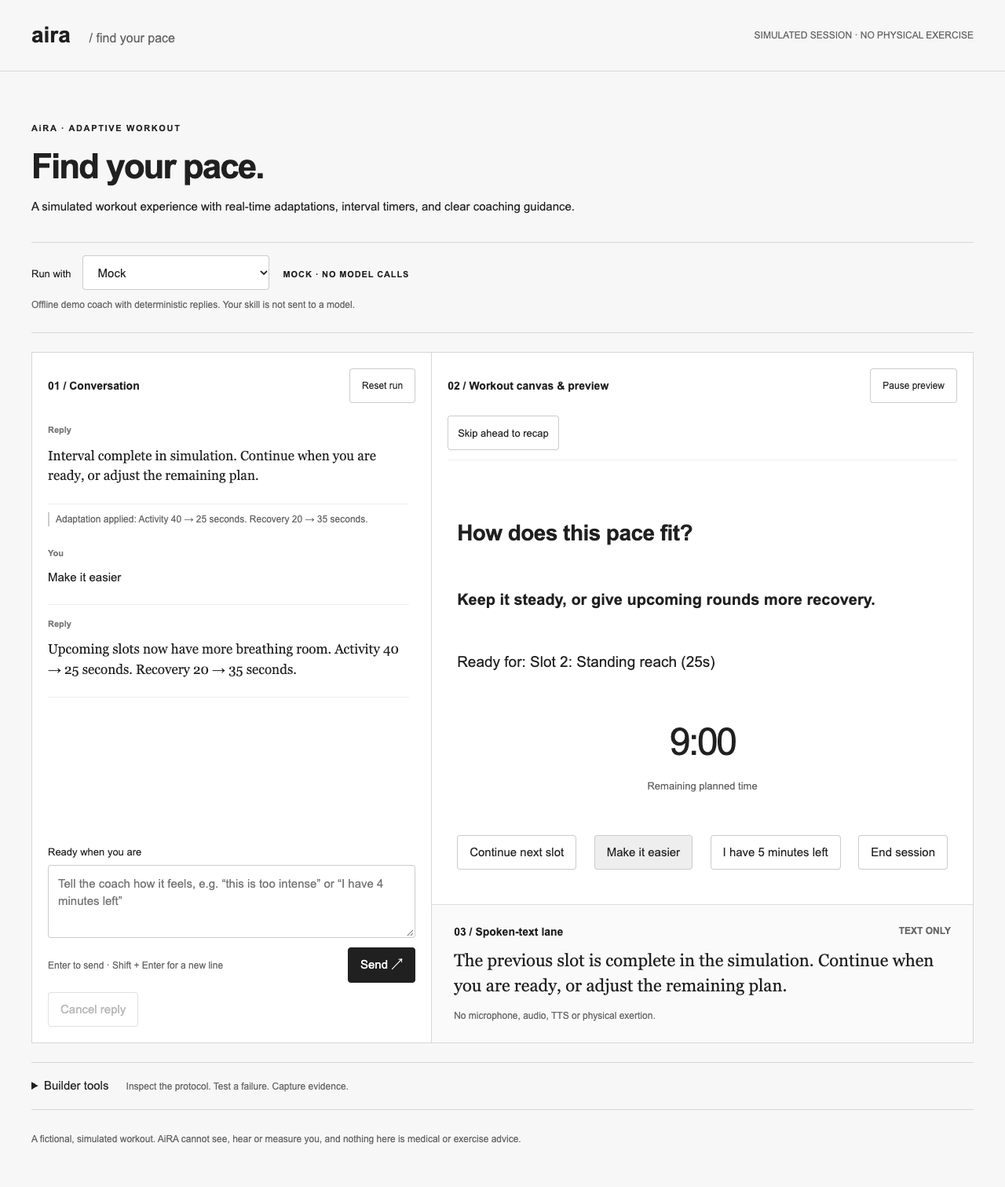
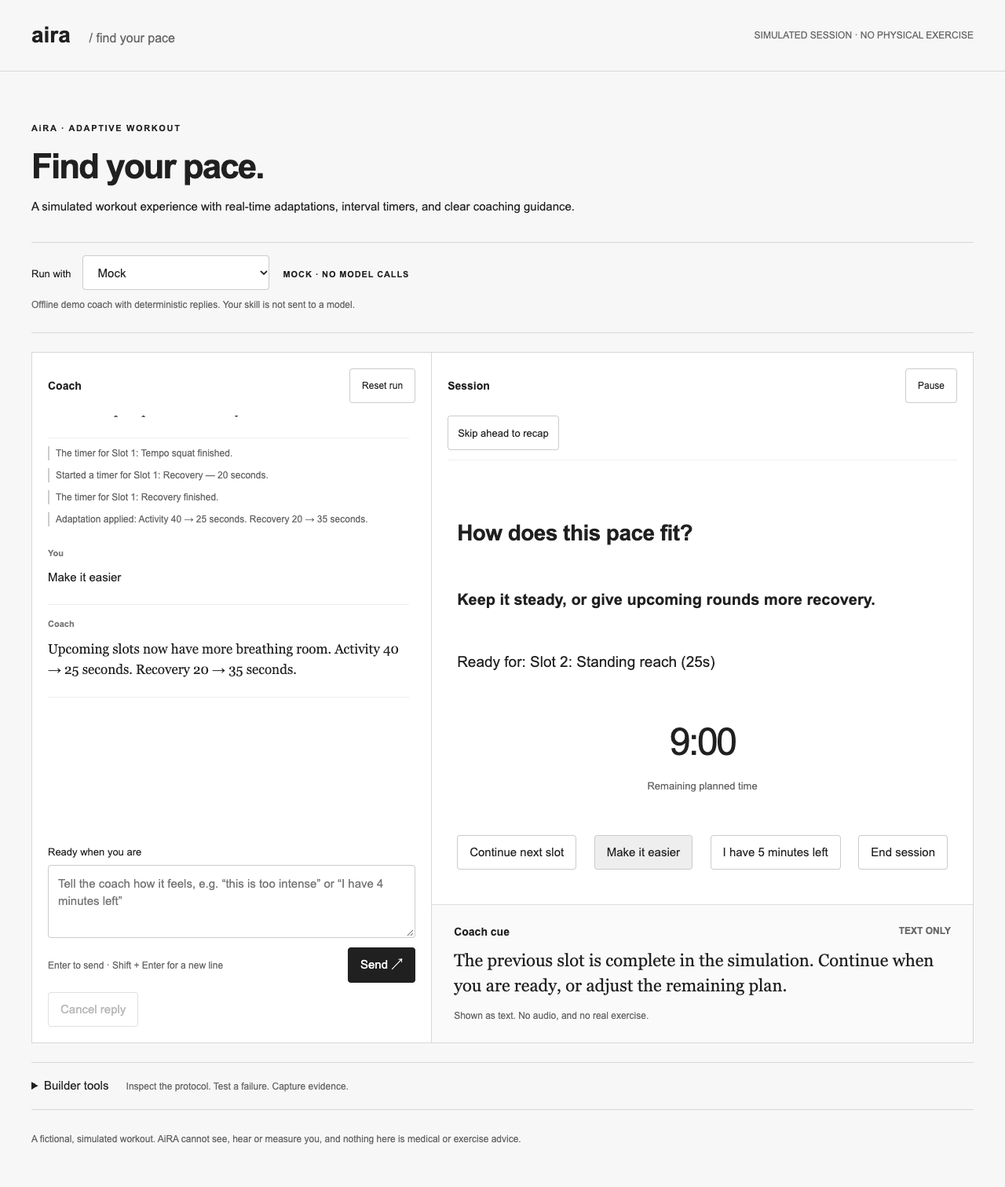
Phase 1 polish: user-facing wording, one finish control, safer coach notes
- A button press never cancels the coach's answer to something typed; it
  may replace a pending comment on an older press, so narration never lags.
- One way to finish an interval: the timer's Simulate finish.
- User-facing labels replace harness wording (Coach, Session, Coach cue,
  Pause), and the empty canvas is the single welcome with a Start button;
  Restart goes straight to a fresh preview.
- Lists honour their markers: numbered preview steps, +/- recap items.
- Transcript logs a finished interval before the recovery it starts.
- Browser tests only rewrite evidence screenshots with CAPTURE_EVIDENCE=1;
  workout screenshots refreshed for the new UI.

diff --git a/src/web/app.ts b/src/web/app.ts
@@ -7,7 +7,7 @@ import { splitReply } from '../shared/openui/document.js';
 import type { StatementNode } from '../shared/openui/openui-model.js';
 import { redactValue } from '../shared/redact.js';
 import { renderComponent } from './components.js';
-import { byId,el } from './dom.js';
+import { byId,button,el } from './dom.js';
 import { applyAdaptation, calculateRemainingSeconds, completeActiveInterval, createWorkoutSession, endSession, getRecapSummary, startInterval, startSession } from '../shared/workout/session.js';
 import { extractProposal, formatClock, intervalTimerKey, renderWorkoutProgram } from '../shared/workout/openui-bridge.js';
 import type { WorkoutActionRecord, WorkoutSession } from '../shared/workout/types.js';
@@ -42,19 +42,19 @@ function render(){
   if(config){const selected=config.providers.find(p=>p.id===c.provider)!;byId('mode').textContent=c.provider==='mock'?'MOCK · NO MODEL CALLS':selected.enabled?'LIVE WHEN SENT':'SETUP / BLOCKED';byId('provider-description').textContent=selected.message;byId('consent-wrap').hidden=c.provider==='mock'||!selected.enabled;byId('consent-label').textContent=c.provider==='claude-cli'?'Use my subscription quota on Send/Retry; I reviewed the host-policy limits.':'Use my API budget on Send/Retry.';byId<HTMLInputElement>('consent').checked=c.consent;byId<HTMLButtonElement>('send').disabled=!selected.enabled||(c.provider!=='mock'&&!c.consent)||paused;byId('mock-controls').hidden=c.provider!=='mock';byId('sample').hidden=c.provider!=='mock';}
   byId('send').textContent=c.pending?'Send update ↗':'Send ↗';byId<HTMLButtonElement>('cancel').disabled=!c.pending;byId('pending').hidden=!c.pending;byId('status').textContent=c.pending?'Thinking… type an update to interrupt':c.error?'Needs attention':'Ready when you are';byId('error').hidden=!c.error;byId('error-message').textContent=c.error;
   const transcript=byId('transcript');transcript.replaceChildren();if(!c.events.length)transcript.append(el('p','Start the demo session, then tell the coach how it is going.','micro'));
-  for(const event of c.events){if(event.kind==='input'||event.kind==='response'){const n=el('div','','message '+(event.kind==='input'?'user':'assistant'));n.append(el('span',event.kind==='input'?'You':'Reply','who'),el('p',event.text??splitReply(event.result!.turn.reply).prose??''));transcript.append(n);}else if(event.text)transcript.append(el('p',event.text,'event'));else if(event.kind==='interrupted'||event.kind==='cancelled')transcript.append(el('p',event.kind==='interrupted'?'Previous reply interrupted. Your messages are kept.':'Reply cancelled.','event'));}
+  for(const event of c.events){if(event.kind==='input'||event.kind==='response'){const n=el('div','','message '+(event.kind==='input'?'user':'assistant'));n.append(el('span',event.kind==='input'?'You':'Coach','who'),el('p',event.text??splitReply(event.result!.turn.reply).prose??''));transcript.append(n);}else if(event.text)transcript.append(el('p',event.text,'event'));else if(event.kind==='interrupted'||event.kind==='cancelled')transcript.append(el('p',event.kind==='interrupted'?'Previous reply interrupted. Your messages are kept.':'Reply cancelled.','event'));}
   transcript.scrollTop=transcript.scrollHeight;syncTimers();
   const screens=c.document.screens,index=screens.findIndex(s=>s.key===c.document.cursor),key=c.document.echo()+String(paused);
   if(key!==renderKey || !byId('screen').childNodes.length){renderKey=key;updates=[];const surface=byId('screen');surface.replaceChildren();const current=c.document.current;
-    if(!current){const n=el('div','','empty');n.append(el('p','AiRA · FIND YOUR PACE','eyebrow'),el('h3','Your workout starts here.'),el('p','Click Start demo session to begin.'));surface.append(n);}
+    if(!current){const n=el('div','','empty');n.append(el('p','AiRA · FIND YOUR PACE','eyebrow'),el('h3','Your workout starts here.'),el('p','A simulated 12-minute session that adapts when your needs change.'),button('Start demo session',()=>pressOption('Start demo session'),'primary'));surface.append(n);}
     else{for(const node of current.props.children as StatementNode[])if(node.name!=='Cue')surface.append(renderComponent(node,{send:pressOption,timers,timerAction,updates,paused}));if(workoutActive)watchRemaining(surface);}
     const progress=byId('progress');progress.replaceChildren();if(screens.length>1)for(let i=0;i<screens.length;i++){const n=el('span','',''+(i===index?'active':i<index?'past':''));n.setAttribute('aria-label',`Screen ${i+1}${i===index?', current':''}`);progress.append(n);}
   }
   byId('navigation').hidden=screens.length<2;byId('position').textContent=`${index+1} / ${screens.length}`;byId<HTMLButtonElement>('back').disabled=paused||index<=0;byId<HTMLButtonElement>('next').disabled=paused;byId('next').textContent=index===screens.length-1?'Finish preview':'Next →';
-  byId<HTMLButtonElement>('pause').disabled=!screens.length;byId('pause').textContent=paused?'Resume preview':'Pause preview';byId('paused').hidden=!paused;
-  const cues=(c.document.current?.props.children as StatementNode[]??[]).filter(n=>n.name==='Cue').map(n=>String(n.props.text));byId('spoken').textContent=cues.join(' ')||c.document.prose||'Current-screen Cues appear here as text. No audio is produced.';
+  byId<HTMLButtonElement>('pause').disabled=!screens.length;byId('pause').textContent=paused?'Resume':'Pause';byId('paused').hidden=!paused;
+  const cues=(c.document.current?.props.children as StatementNode[]??[]).filter(n=>n.name==='Cue').map(n=>String(n.props.text));byId('spoken').textContent=cues.join(' ')||c.document.prose||'The coach\'s cues for the current screen appear here.';
   byId('state-json').textContent=JSON.stringify({ui_state:c.document.echo(),client_events:c.clientEvents,timers:timers.list(),workout},null,2);byId<HTMLButtonElement>('export').disabled=c.pending||!c.events.length;
-  const inSession=workoutActive&&!['welcome','recap'].includes(workout.stage);byId('btn-start-demo').hidden=workoutActive;byId('btn-sim-remaining').hidden=!inSession;byId<HTMLButtonElement>('btn-sim-remaining').disabled=paused||c.pending;byId('workout-actions').hidden=workoutActive&&!inSession;
+  const inSession=workoutActive&&!['welcome','recap'].includes(workout.stage);byId('btn-sim-remaining').hidden=!inSession;byId<HTMLButtonElement>('btn-sim-remaining').disabled=paused||c.pending;byId('workout-actions').hidden=!inSession;
 }
 byId<HTMLFormElement>('composer').addEventListener('submit',event=>{event.preventDefault();const text=draft.value.trim();if(text){draft.value='';send(text,true);}});
 draft.addEventListener('keydown',event=>{if(event.key==='Enter'&&!event.shiftKey&&!event.isComposing){event.preventDefault();byId<HTMLFormElement>('composer').requestSubmit();}});
@@ -66,7 +66,6 @@ byId<HTMLSelectElement>('provider').addEventListener('change',event=>c.selectPro
 byId<HTMLInputElement>('consent').addEventListener('change',event=>{c.consent=(event.target as HTMLInputElement).checked;if(!c.consent)c.cancel();render();});
 byId('apply-patch').addEventListener('click',()=>{if(workoutActive){byId('patch-status').textContent='Patches are for the wiring sample. The workout screen is rendered from session state; load the sample first.';return;}try{const raw=byId<HTMLTextAreaElement>('patch').value;c.document.apply(raw.includes('```')?raw:'```openui\n'+raw+'\n```');c.localEvent('Builder applied local OpenUI data: '+raw);byId('patch-status').textContent='Patch accepted. This is local fixture evidence, not a model run.';}catch{byId('patch-status').textContent='Invalid patch. Previous screen kept. Check names, arguments and catalog.';}});
 byId('export').addEventListener('click',()=>{const label=byId<HTMLSelectElement>('run-label').value;const payload={format:'aira-workout-run-v1',label,appVersion:APP_VERSION,schemaVersion:SCHEMA_VERSION,selectedProvider:c.provider,note:byId<HTMLTextAreaElement>('note').value,events:c.events,state:{ui_state:c.document.echo(),client_events:c.clientEvents},timers:timers.list(),...(workoutActive?{workout,recap:getRecapSummary(workout)}:{})};const url=URL.createObjectURL(new Blob([JSON.stringify(redactValue(payload),null,2)],{type:'application/json'}));const link=el('a');link.href=url;link.download=label+'.json';link.click();setTimeout(()=>URL.revokeObjectURL(url),1000);byId('export-status').textContent=`Downloaded ${label}.json. Review and move it into runs/.`;});
-byId('btn-start-demo').addEventListener('click',()=>pressOption('Start demo session'));
 byId('btn-sim-remaining').addEventListener('click',()=>{if(!paused&&!c.pending)dispatch('skip-ahead');});
 async function start(){render();try{const response=await fetch('/api/config');if(!response.ok)throw new Error();config=await response.json();const select=byId<HTMLSelectElement>('provider');select.replaceChildren();for(const p of config!.providers){const option=el('option',p.label+(p.enabled?'':' · setup / blocked'));option.value=p.id;select.append(option);}select.value='mock';select.disabled=false;render();}catch{byId('status').textContent='Could not connect. Restart the local server and reload.';}}
 
@@ -95,13 +94,14 @@ function record(action: WorkoutActionRecord['action'], source: WorkoutActionReco
 function showWorkout(event?: string) {
   c.document.apply('```openui\n' + renderWorkoutProgram(workout, activeRemaining()) + '\n```');
   syncTimers();
-  // A newly active interval arrives with a stopped timer; start it.
+  if (event) c.localEvent(event, false);
+  // A newly active interval arrives with a stopped timer; start it after logging what caused it.
   const active = workout.intervals.find(i => i.id === workout.activeIntervalId);
   if (active && timers.list().find(t => t.id === intervalTimerKey(active.id))?.status === 'stopped') {
     timers.start(intervalTimerKey(active.id));
     c.localEvent(activityClientEvents.startedTimer(active.label, active.durationSeconds), false);
   }
-  if (event) c.localEvent(event, false); else render();
+  render();
 }
 
 function dispatch(action: WorkoutAction, arg?: string | number, source: WorkoutActionRecord['source'] = 'user') {
@@ -134,7 +134,8 @@ function dispatch(action: WorkoutAction, arg?: string | number, source: WorkoutA
       return showWorkout('Ended session early.');
     case 'restart':
       nav.dispose(); nav = makeNav(); paused = false; pausedTimers = []; timers.forget(); previousTimers.clear();
-      workout = createWorkoutSession();
+      // Restart goes straight to a fresh preview; the empty-canvas card is the only welcome.
+      workout = startSession(createWorkoutSession());
       record(action, source);
       return showWorkout('Restarted demo session.');
     case 'ease':
@@ -169,7 +170,6 @@ function dispatch(action: WorkoutAction, arg?: string | number, source: WorkoutA
 const OPTIONS: Record<string, [WorkoutAction, (string | number)?]> = {
   'Start demo session': ['start-session'],
   'Start opening': ['start-interval', 'opening'],
-  'Simulate interval finish': ['complete-interval'],
   'Continue next slot': ['start-interval'],
   'Make it easier': ['ease'],
   'I have 5 minutes left': ['shorten', 300],
@@ -180,11 +180,12 @@ const OPTIONS: Record<string, [WorkoutAction, (string | number)?]> = {
 function pressOption(label: string) {
   const option = OPTIONS[label];
   if (!option) return send(label);
-  if (paused) { c.error = 'Resume the preview first.'; return render(); }
+  if (paused) { c.error = 'Resume first.'; return render(); }
   dispatch(...option);
-  // Let the coach comment on the change when a provider is ready; the change itself never waits for it.
+  // Let the coach comment when a provider is ready. A newer press may replace a pending
+  // comment on an older one, but never a pending answer to something the user typed.
   const provider = config?.providers.find(p => p.id === c.provider);
-  if (provider?.enabled && (c.provider === 'mock' || c.consent)) { lastSendTyped = false; void c.send(label); }
+  if (provider?.enabled && (c.provider === 'mock' || c.consent) && !(c.pending && lastSendTyped)) { lastSendTyped = false; void c.send(label); }
 }
 
 function recordAutoStart(finishedId: string) {

diff --git a/src/web/styles.css b/src/web/styles.css
@@ -1,1 +1,1 @@
-*{box-sizing:border-box}body{margin:0;background:#f7f7f7;color:#202020;font-family:Arial,Helvetica,sans-serif;font-size:15px;line-height:1.5}header,main{max-width:1440px;margin:auto;padding:24px 40px}header{display:flex;justify-content:space-between;align-items:center;border-bottom:1px solid #d7d7d7}.brand{color:inherit;font-size:28px;font-weight:700;text-decoration:none}.brand span{font-size:16px;font-weight:400;color:#666;margin-left:16px}.micro{font-size:12px;color:#666}.intro{padding:30px 0 24px}.eyebrow{font-size:11px;letter-spacing:.15em;font-weight:700}h1{font-size:44px;letter-spacing:-.045em;line-height:1.1;margin:16px 0}h2{font-size:14px;margin:0}h3{font-size:18px}p{margin:10px 0}button,select,textarea{font:inherit;border:1px solid #ccc;border-radius:4px;background:#fff;color:#222}button,select{min-height:44px;padding:10px 15px}button{cursor:pointer}button:hover:not(:disabled){background:#eee}button:disabled{color:#888;cursor:default;opacity:.6}button.primary{background:#202020;color:white;border-color:#202020}button.primary:hover:not(:disabled){background:#444}textarea{display:block;width:100%;padding:12px;resize:vertical;max-width:100%}button:focus-visible,select:focus-visible,textarea:focus-visible{outline:2px solid #333;outline-offset:2px}label{display:block;font-size:13px;margin:12px 0 6px}input[type=checkbox]{width:18px;height:18px;vertical-align:middle}.provider-panel{border-block:1px solid #d7d7d7;padding:16px 0;margin-bottom:24px}.provider-panel>label:first-child{display:inline-block;margin-right:14px}.provider-panel strong{font-size:11px;letter-spacing:.08em;margin-left:18px}.workspace{display:grid;grid-template-columns:.85fr 1.15fr;border:1px solid #d7d7d7;background:white}.conversation{border-right:1px solid #d7d7d7;padding:20px;display:flex;flex-direction:column}.panel-heading{display:flex;justify-content:space-between;align-items:center;gap:12px;margin-bottom:16px}.panel-heading button{font-size:12px}.preview{padding:20px;min-width:0}.row{display:flex;align-items:center;justify-content:space-between;gap:10px;margin-top:12px}#transcript{height:365px;overflow:auto;overflow-wrap:anywhere;padding:6px 8px 6px 0}.message{padding:12px 0;border-bottom:1px solid #eee}.message .who{font-size:11px;color:#777;font-weight:700}.message.assistant p{font-family:Georgia,serif;font-size:17px}.event{font-size:12px;color:#666;border-left:2px solid #ccc;padding-left:8px}#composer{margin-top:auto}#screen{min-height:340px;padding:20px 12px}.empty{padding:42px 6px}.empty h3{font-family:Georgia,serif;font-size:28px;font-weight:400;max-width:330px}.block{padding:12px 0;overflow-wrap:anywhere}.block-title{font-size:28px;font-weight:700;line-height:1.2;letter-spacing:-.02em}.block-subtitle{font-size:20px;font-weight:700}.block-description{font-size:19px}.keyword{padding:30px 0;text-align:center}.keyword strong{font-size:48px;letter-spacing:-.05em;font-weight:400}.keyword p{font-size:13px;color:#666}.alert{border-left:3px solid #999;padding:14px 18px;background:#f5f5f5}.timer{border-block:1px solid #ddd;padding:20px 0}.timer strong{font-size:40px;font-variant-numeric:tabular-nums;font-weight:400}.timer .row{flex-wrap:wrap}.timer h3{margin:0}.timer-status{margin-left:12px}.progress{display:flex;gap:5px}.progress span{height:4px;flex:1;background:#e5e5e5}.progress span.active{background:#222}.progress span.past{background:#999}.spoken{border-top:1px solid #ddd;margin:24px -20px -20px;padding:24px 28px;background:#fafafa;min-height:156px}.spoken h2{display:flex;justify-content:space-between;gap:12px}.spoken p{font-family:Georgia,serif;font-size:22px;line-height:1.45}.notice,#error{background:#f1f1f1;border-left:3px solid #666;padding:10px 14px;font-size:13px}.builder{margin-top:24px;border-block:1px solid #d7d7d7;padding:18px 0}.builder summary{cursor:pointer}.builder summary span{margin-left:18px}.tools-grid{display:grid;grid-template-columns:repeat(3,minmax(0,1fr));gap:36px;padding:12px 0}.tools-grid button{margin-top:12px}pre{max-height:330px;overflow:auto;padding:12px;background:#f0f0f0;font-size:12px;white-space:pre-wrap;overflow-wrap:anywhere}footer{padding:28px 0;color:#666;font-size:12px}[hidden]{display:none!important}@media(max-width:760px){header,main{padding:20px}.brand{font-size:24px}.brand span{font-size:13px;margin-left:6px}header>.micro{display:none}h1{font-size:36px}.workspace,.tools-grid{grid-template-columns:1fr}.conversation{border-right:0;border-bottom:1px solid #ddd}#transcript{height:260px}.provider-panel strong{display:block;margin:14px 0 0}.spoken h2{display:block}.spoken .micro{display:block}.row{flex-wrap:wrap}.builder summary span{display:block;margin-left:0}#screen{min-height:260px}}.workout-bar{display:flex;flex-wrap:wrap;gap:8px;margin:12px 0 16px;padding-bottom:12px;border-bottom:1px solid #eee}.workout-bar button{font-size:13px;padding:8px 12px;min-height:44px}.proposal-pill{display:inline-block;padding:4px 8px;background:#eef6d8;border-radius:4px;color:#334d00;font-weight:600;margin:6px 0}@media(max-width:760px){.workspace{display:flex;flex-direction:column-reverse}.conversation{border-top:1px solid #ddd;border-bottom:0}}
+*{box-sizing:border-box}body{margin:0;background:#f7f7f7;color:#202020;font-family:Arial,Helvetica,sans-serif;font-size:15px;line-height:1.5}header,main{max-width:1440px;margin:auto;padding:24px 40px}header{display:flex;justify-content:space-between;align-items:center;border-bottom:1px solid #d7d7d7}.brand{color:inherit;font-size:28px;font-weight:700;text-decoration:none}.brand span{font-size:16px;font-weight:400;color:#666;margin-left:16px}.micro{font-size:12px;color:#666}.intro{padding:30px 0 24px}.eyebrow{font-size:11px;letter-spacing:.15em;font-weight:700}h1{font-size:44px;letter-spacing:-.045em;line-height:1.1;margin:16px 0}h2{font-size:14px;margin:0}h3{font-size:18px}p{margin:10px 0}button,select,textarea{font:inherit;border:1px solid #ccc;border-radius:4px;background:#fff;color:#222}button,select{min-height:44px;padding:10px 15px}button{cursor:pointer}button:hover:not(:disabled){background:#eee}button:disabled{color:#888;cursor:default;opacity:.6}button.primary{background:#202020;color:white;border-color:#202020}button.primary:hover:not(:disabled){background:#444}textarea{display:block;width:100%;padding:12px;resize:vertical;max-width:100%}button:focus-visible,select:focus-visible,textarea:focus-visible{outline:2px solid #333;outline-offset:2px}label{display:block;font-size:13px;margin:12px 0 6px}input[type=checkbox]{width:18px;height:18px;vertical-align:middle}.provider-panel{border-block:1px solid #d7d7d7;padding:16px 0;margin-bottom:24px}.provider-panel>label:first-child{display:inline-block;margin-right:14px}.provider-panel strong{font-size:11px;letter-spacing:.08em;margin-left:18px}.workspace{display:grid;grid-template-columns:.85fr 1.15fr;border:1px solid #d7d7d7;background:white}.conversation{border-right:1px solid #d7d7d7;padding:20px;display:flex;flex-direction:column}.panel-heading{display:flex;justify-content:space-between;align-items:center;gap:12px;margin-bottom:16px}.panel-heading button{font-size:12px}.preview{padding:20px;min-width:0}.row{display:flex;align-items:center;justify-content:space-between;gap:10px;margin-top:12px}#transcript{height:365px;overflow:auto;overflow-wrap:anywhere;padding:6px 8px 6px 0}.message{padding:12px 0;border-bottom:1px solid #eee}.message .who{font-size:11px;color:#777;font-weight:700}.message.assistant p{font-family:Georgia,serif;font-size:17px}.event{font-size:12px;color:#666;border-left:2px solid #ccc;padding-left:8px}#composer{margin-top:auto}#screen{min-height:340px;padding:20px 12px}.empty{padding:42px 6px}.empty h3{font-family:Georgia,serif;font-size:28px;font-weight:400;max-width:330px}.block{padding:12px 0;overflow-wrap:anywhere}.block-title{font-size:28px;font-weight:700;line-height:1.2;letter-spacing:-.02em}.block-subtitle{font-size:20px;font-weight:700}.block-description{font-size:19px}.keyword{padding:30px 0;text-align:center}.keyword strong{font-size:48px;letter-spacing:-.05em;font-weight:400}.keyword p{font-size:13px;color:#666}.alert{border-left:3px solid #999;padding:14px 18px;background:#f5f5f5}.timer{border-block:1px solid #ddd;padding:20px 0}.timer strong{font-size:40px;font-variant-numeric:tabular-nums;font-weight:400}.timer .row{flex-wrap:wrap}.timer h3{margin:0}.timer-status{margin-left:12px}.progress{display:flex;gap:5px}.progress span{height:4px;flex:1;background:#e5e5e5}.progress span.active{background:#222}.progress span.past{background:#999}.spoken{border-top:1px solid #ddd;margin:24px -20px -20px;padding:24px 28px;background:#fafafa;min-height:156px}.spoken h2{display:flex;justify-content:space-between;gap:12px}.spoken p{font-family:Georgia,serif;font-size:22px;line-height:1.45}.notice,#error{background:#f1f1f1;border-left:3px solid #666;padding:10px 14px;font-size:13px}.builder{margin-top:24px;border-block:1px solid #d7d7d7;padding:18px 0}.builder summary{cursor:pointer}.builder summary span{margin-left:18px}.tools-grid{display:grid;grid-template-columns:repeat(3,minmax(0,1fr));gap:36px;padding:12px 0}.tools-grid button{margin-top:12px}pre{max-height:330px;overflow:auto;padding:12px;background:#f0f0f0;font-size:12px;white-space:pre-wrap;overflow-wrap:anywhere}footer{padding:28px 0;color:#666;font-size:12px}[hidden]{display:none!important}@media(max-width:760px){header,main{padding:20px}.brand{font-size:24px}.brand span{font-size:13px;margin-left:6px}header>.micro{display:none}h1{font-size:36px}.workspace,.tools-grid{grid-template-columns:1fr}.conversation{border-right:0;border-bottom:1px solid #ddd}#transcript{height:260px}.provider-panel strong{display:block;margin:14px 0 0}.spoken h2{display:block}.spoken .micro{display:block}.row{flex-wrap:wrap}.builder summary span{display:block;margin-left:0}#screen{min-height:260px}}.workout-bar{display:flex;flex-wrap:wrap;gap:8px;margin:12px 0 16px;padding-bottom:12px;border-bottom:1px solid #eee}.workout-bar button{font-size:13px;padding:8px 12px;min-height:44px}li[data-marker=plus]::marker{content:"+  "}li[data-marker=minus]::marker{content:"−  "}.proposal-pill{display:inline-block;padding:4px 8px;background:#eef6d8;border-radius:4px;color:#334d00;font-weight:600;margin:6px 0}@media(max-width:760px){.workspace{display:flex;flex-direction:column-reverse}.conversation{border-top:1px solid #ddd;border-bottom:0}}

diff --git a/src/web/index.html b/src/web/index.html
@@ -3,7 +3,7 @@
 <body><header><a href="/" class="brand">aira <span>/ find your pace</span></a><span class="micro">SIMULATED SESSION · NO PHYSICAL EXERCISE</span></header>
 <main><section class="intro"><p class="eyebrow">AiRA · ADAPTIVE WORKOUT</p><h1>Find your pace.</h1><p>A simulated workout experience with real-time adaptations, interval timers, and clear coaching guidance.</p></section>
 <section class="provider-panel"><label for="provider">Run with</label><select id="provider" disabled><option>Connecting…</option></select><strong id="mode">Connecting</strong><p id="provider-description" class="micro"></p><label id="consent-wrap" hidden><input type="checkbox" id="consent"> <span id="consent-label"></span></label></section>
-<div class="workspace"><section class="conversation"><div class="panel-heading"><h2>01 / Conversation</h2><button id="reset">Reset run</button></div><div id="transcript" role="log" aria-label="Conversation transcript"></div><div id="error" role="alert" hidden><p id="error-message"></p><button id="retry">Retry last turn</button></div><form id="composer"><label for="message" id="status" role="status">Ready when you are</label><textarea id="message" maxlength="2000" rows="3" placeholder="Tell the coach how it feels, e.g. “this is too intense” or “I have 4 minutes left”"></textarea><div class="row"><span class="micro">Enter to send · Shift + Enter for a new line</span><button id="send" class="primary" disabled>Send ↗</button></div></form><div class="row"><button id="cancel" disabled>Cancel reply</button></div></section>
-<section class="preview"><div class="panel-heading"><h2>02 / Workout canvas & preview</h2><button id="pause" disabled>Pause preview</button></div><div id="workout-actions" class="workout-bar"><button id="btn-start-demo" class="primary">Start demo session</button><button id="btn-sim-remaining" title="Fast-forward every remaining interval in the simulation">Skip ahead to recap</button></div><div id="pending" class="notice" hidden>Reply pending · previous screen stays available</div><div id="paused" class="notice" hidden>Preview paused. Your place is kept.</div><div id="progress" class="progress" aria-label="Screen progress"></div><div id="screen"></div><nav id="navigation" class="row" hidden aria-label="Stepper"><button id="back">← Back</button><span id="position" class="micro"></span><button id="next" class="primary">Next →</button></nav><section class="spoken"><h2>03 / Spoken-text lane <span class="micro">TEXT ONLY</span></h2><p id="spoken"></p><span class="micro">No microphone, audio, TTS or physical exertion.</span></section></section></div>
+<div class="workspace"><section class="conversation"><div class="panel-heading"><h2>Coach</h2><button id="reset">Reset run</button></div><div id="transcript" role="log" aria-label="Conversation transcript"></div><div id="error" role="alert" hidden><p id="error-message"></p><button id="retry">Retry last turn</button></div><form id="composer"><label for="message" id="status" role="status">Ready when you are</label><textarea id="message" maxlength="2000" rows="3" placeholder="Tell the coach how it feels, e.g. “this is too intense” or “I have 4 minutes left”"></textarea><div class="row"><span class="micro">Enter to send · Shift + Enter for a new line</span><button id="send" class="primary" disabled>Send ↗</button></div></form><div class="row"><button id="cancel" disabled>Cancel reply</button></div></section>
+<section class="preview"><div class="panel-heading"><h2>Session</h2><button id="pause" disabled>Pause</button></div><div id="workout-actions" class="workout-bar"><button id="btn-sim-remaining" title="Fast-forward every remaining interval in the simulation">Skip ahead to recap</button></div><div id="pending" class="notice" hidden>The coach is replying…</div><div id="paused" class="notice" hidden>Paused. Your place is kept.</div><div id="progress" class="progress" aria-label="Screen progress"></div><div id="screen"></div><nav id="navigation" class="row" hidden aria-label="Stepper"><button id="back">← Back</button><span id="position" class="micro"></span><button id="next" class="primary">Next →</button></nav><section class="spoken"><h2>Coach cue <span class="micro">TEXT ONLY</span></h2><p id="spoken"></p><span class="micro">Shown as text. No audio, and no real exercise.</span></section></section></div>
 <details class="builder"><summary>Builder tools <span class="micro">Inspect the protocol. Test a failure. Capture evidence.</span></summary><div class="tools-grid"><section><h3>Try a local patch</h3><p class="micro">OpenUI data only. This does not edit your skill or source files. Use a stable existing name to patch it.</p><label for="patch">Statement(s)</label><textarea id="patch" rows="4" spellcheck="false" placeholder='count1 = Keyword("6", "Sample value")'></textarea><button id="apply-patch">Apply local patch</button><p id="patch-status" role="status" class="micro"></p><details><summary>What the model receives next</summary><pre id="state-json"></pre></details></section><section><h3>Developer checks</h3><p class="micro">Load the starter's generic component fixture to check low-level wiring. It replaces the workout screen.</p><button id="sample">Load wiring sample</button></section><section><h3>Test and capture</h3><div id="mock-controls"><label for="fault">Next mock response</label><select id="fault"><option value="none">Normal</option><option value="slow">Slow · try interrupting</option><option value="schema">Invalid OpenUI schema</option><option value="request">Failed request</option></select></div><label for="run-label">Run label</label><select id="run-label"><option value="before">Before</option><option value="after">After</option></select><label for="note">What did you learn?</label><textarea id="note" rows="3" maxlength="2000" placeholder="Optional run note."></textarea><button id="export">Download run JSON</button><p id="export-status" class="micro" role="status">Manual capture. Review and move exports into runs/.</p></section></div></details>
 <footer>A fictional, simulated workout. AiRA cannot see, hear or measure you, and nothing here is medical or exercise advice.</footer></main></body></html>

diff --git a/src/web/components.ts b/src/web/components.ts
@@ -7,15 +7,15 @@ export const renderers: Record<string,(node:StatementNode,context:Context)=>HTML
   Text: ({props:p}) => el(p.variant==='title'?'h3':p.variant==='subtitle'?'h4':'p',String(p.text),'block block-'+String(p.variant??'body')),
   Keyword: ({props:p}) => {const n=el('div','','keyword');n.append(el('strong',String(p.text)));if(p.caption)n.append(el('p',String(p.caption)));return n;},
   Alert: ({props:p}) => el('aside',String(p.text),'block alert'),
-  List: ({props:p},c) => {const n=el('ul','','block');for(const row of p.items as StatementNode[])n.append(renderComponent(row,c));return n;},
-  ListItem: ({props:p}) => el('li',String(p.text)),
+  List: ({props:p},c) => {const n=el((p.items as StatementNode[]).every(r=>r.props.marker==='numbered')?'ol':'ul','','block');for(const row of p.items as StatementNode[])n.append(renderComponent(row,c));return n;},
+  ListItem: ({props:p}) => {const n=el('li',String(p.text));if(typeof p.marker==='string')n.dataset.marker=p.marker;return n;},
   FollowUps: ({props:p},c) => {const n=el('div','','row');for(const text of p.prompts as string[])n.append(button(text,()=>c.send(text)));return n;},
   Timer: ({key,props:p},c) => {
     const n=el('section','','timer');n.setAttribute('aria-label',String(p.label));
-    n.append(el('p','SIMULATED TIMER · LOCAL ONLY','eyebrow'),el('h3',String(p.label)));
+    n.append(el('p','SIMULATED TIMER','eyebrow'),el('h3',String(p.label)));
     const value=el('strong'),status=el('span','','micro timer-status'),row=el('div','','row');
     const start=button('Start simulation',()=>c.timerAction(key,'start')),pause=button('Pause timer',()=>c.timerAction(key,'pause')),reset=button('Reset timer',()=>c.timerAction(key,'reset')),finish=button('Simulate finish',()=>c.timerAction(key,'finish'));
-    row.append(start,pause,reset,finish);n.append(value,status,row,el('p','Finishing records a local timer event.','micro'));
+    row.append(start,pause,reset,finish);n.append(value,status,row);
     const update=()=>{const entry=c.timers.list().find(t=>t.id===key);if(!entry)return;const seconds=Math.ceil(entry.remaining);value.textContent=`${Math.floor(seconds/60)}:${String(seconds%60).padStart(2,'0')}`;status.textContent=entry.status;start.hidden=entry.status==='running'||entry.status==='paused';start.textContent=entry.status==='done'?'Restart simulation':'Start simulation';pause.hidden=entry.status==='stopped'||entry.status==='done';pause.textContent=entry.status==='paused'?'Resume timer':'Pause timer';for(const b of [start,pause,reset,finish])b.disabled=c.paused;};
     c.updates.push(update);update();return n;
   },

diff --git a/src/server/mock.ts b/src/server/mock.ts
@@ -48,7 +48,7 @@ export function mockTurn(request: RequestData, fixture: string): Turn {
     return say('Keeping the current pace. Continue when you are ready.', session, 'proposal1 = Proposal("keep")');
   }
 
-  if (/^(start demo session|start opening|simulate interval finish|continue next slot|end session|restart demo session)$/.test(last)) return say(describe(session));
+  if (/^(start demo session|start opening|continue next slot|end session|restart demo session)$/.test(last)) return say(describe(session));
   return say('I am the offline demo coach: I follow the on-screen options plus requests like "make it easier", "I have 5 minutes left" or "keep going". Mock mode does not read your skill; choose a live provider for free-form coaching.');
 }
 

diff --git a/src/shared/workout/openui-bridge.ts b/src/shared/workout/openui-bridge.ts
@@ -84,7 +84,7 @@ export function renderWorkoutProgram(session: WorkoutSession, activeTimerRemaini
       part(intervalTimerKey(active.id), 'Timer', [active.label, active.durationSeconds]),
       part('nextNotice', 'Text', [next ? `Up next: ${next.label} (${next.durationSeconds}s)` : 'Final interval in progress', 'description']),
       part('remainingStat', 'Keyword', [remaining, 'Remaining planned time']),
-      part('activeActions', 'FollowUps', [['Simulate interval finish', 'Make it easier', 'I have 5 minutes left', 'End session']]),
+      part('activeActions', 'FollowUps', [['Make it easier', 'I have 5 minutes left', 'End session']]),
       part('activeCue', 'Cue', [CUES[active.kind]]),
     ]);
   }

diff --git a/README.md b/README.md
@@ -19,7 +19,7 @@ The app starts in Mock and needs no account or key. Click **Start demo session**
 
 **Find your pace** is a fictional 12-minute session: a warm-up, eight work/recovery slots alternating Tempo squat and Standing reach, and a cool-down. The coach checks in after the warm-up and after each recovery, and the rest of the plan changes when you ask it to.
 
-The main decision was to keep the model away from workout state. `src/shared/workout/session.ts` owns the plan as plain functions (start, finish, end, ease, shorten), and `openui-bridge.ts` renders every screen from it. The model reads the session and replies with a sentence or two, plus at most one `Proposal("ease")`, `Proposal("shorten", seconds)` or `Proposal("keep")`. The browser checks the proposal against the session revision it was made for, so anything that moved the session on while the model was replying (an interval finishing, another change, a restart) makes it stale. Buttons on screen apply their change locally whatever the provider's state; if a provider is ready, the coach is then told about the press so it can comment. Typed text never runs a command; it only goes to the coach.
+The main decision was to keep the model away from workout state. `src/shared/workout/session.ts` owns the plan as plain functions (start, finish, end, ease, shorten), and `openui-bridge.ts` renders every screen from it. The model reads the session and replies with a sentence or two, plus at most one `Proposal("ease")`, `Proposal("shorten", seconds)` or `Proposal("keep")`. The browser checks the proposal against the session revision it was made for, so anything that moved the session on while the model was replying (an interval finishing, another change, a restart) makes it stale. Buttons on screen apply their change locally whatever the provider's state; if a provider is ready and not already replying, the coach is then told about the press so it can comment. A button press never cancels a reply in progress. Typed text never runs a command; it only goes to the coach.
 
 Adaptations never rewrite what has already happened. Easing changes only slots that haven't started, from 40s/20s to 25s/35s. Shortening drops whole untouched slots from the end, then trims the cool-down (not below 30s); it never touches the running interval, and if the target can't be met it changes nothing and says why.
 
@@ -28,8 +28,8 @@ Out of scope on purpose: anything medical. The coach treats pain or injury as a 
 The recap is computed from session state, and **Download run JSON** under Builder tools exports the full action history. `evidence/screenshots/` has screenshots from the browser tests and from the live Claude run.
 
 ### 90-second reviewer walkthrough
-1. Click **Start demo session**, then **Start opening**, then **Simulate interval finish** to reach the first check-in.
-2. Click **Continue next slot** and **Simulate interval finish**: the work slot ends and its recovery starts automatically; finishing that returns to a check-in.
+1. Click **Start demo session**, then **Start opening**, then the timer's **Simulate finish** to reach the first check-in.
+2. Click **Continue next slot**, then **Simulate finish**: the work slot ends and its recovery starts automatically; finishing that returns to a check-in.
 3. Click **Make it easier** on the check-in screen: upcoming slots change from 40s/20s to 25s/35s.
 4. Type `I only have 4 minutes left` and press Enter: the coach replies with a Proposal and the remaining plan is trimmed to fit 240 seconds. (`shorten it` alone gets a follow-up question.)
 5. Keep clicking through, or use **Skip ahead to recap** to fast-forward the remaining intervals.
@@ -39,7 +39,7 @@ The recap is computed from session state, and **Download run JSON** under Builde
 
 | Mode | Status |
 | --- | --- |
-| **Mock** | Tested: `npm run check` (typecheck, lint, 65 unit tests) and `npm run test:ui` (19 Playwright tests, run with Google Chrome 154 via `PLAYWRIGHT_CHROME_PATH`), plus a manual click-through in the browser. Node 26.7 on macOS. |
+| **Mock** | Tested: `npm run check` (typecheck, lint, 65 unit tests) and `npm run test:ui` (23 Playwright tests, run with Google Chrome 154 via `PLAYWRIGHT_CHROME_PATH`), plus a manual click-through in the browser. Node 26.7 on macOS. |
 | **ClaudeCLI** | **Tested live** on 9 October 2026: Claude Code 2.1.278 with a Claude-plan login; the CLI reported `claude-sonnet-5`. One scripted 8-turn session: "too intense" → `Proposal("ease")`, applied; "shorten it" → asked how much time was left; "I only have 4 minutes left" → `Proposal("shorten", 240)`, applied; "my knee hurts" → the simulation/safety boundary and a suggestion to pause or end. Both adaptations are recorded with `source: "model"`. The export is in `runs/claude-cli-live.json` and a screenshot in `evidence/screenshots/06-live-claude.png`. The consent flow is also covered by the browser tests with a faked response. The run was recorded before the last round of fixes (button handling, proposal staleness, repeated shortening); the skill and the data sent to the model did not change. |
 | **OpenAIAPI** | Adapter unit tests with fake transports only. No live request. |
 | **CodexCLI** | Disabled by the starter; not tested. |
@@ -52,7 +52,7 @@ Mock is deterministic. It mirrors the skill's Proposal protocol for the requests
 - `src/shared/workout/`: session state, adaptations and screen rendering for the workout.
 - `prompts/`: output protocol and current-turn context.
 - `runs/claude-cli-live.json`: the exported live Claude run.
-- `evidence/screenshots/`: screenshots captured by the browser tests and the live run.
+- `evidence/screenshots/`: screenshots from the browser tests and the live run. Tests leave them alone unless you run `CAPTURE_EVIDENCE=1 npm run test:ui`.
 - `src/shared/openui/`: parser, component registry, validation, navigation, timers and serialization.
 - `src/web/`: browser renderers and presentation.
 - `src/server/`: prompt loading, local HTTP server, mock and model adapters.
